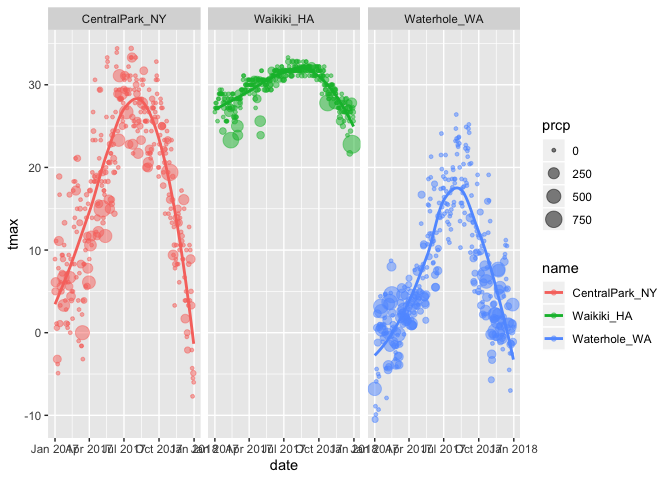
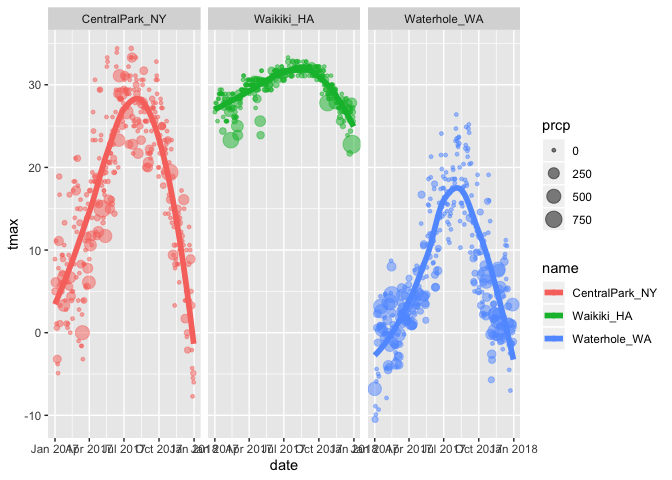
added more plots - histograms and density plots

diff --git a/viz_and_eda_1.md b/viz_and_eda_1.md
@@ -191,7 +191,7 @@ weather_df %>%
 weather_df %>%
   ggplot(aes(x = date, y = tmax, color = name)) +
   geom_point(aes(size = prcp), alpha = .5) +
-  geom_smooth(se = FALSE) +
+  geom_smooth(size = 2, se = FALSE) +
   facet_grid(~name)
 ```
 
@@ -206,3 +206,65 @@ weather_df %>%
 ``` r
 ## size = prcp -> the size of the datapoints are determined by the precipitation data
 ```
+
+## what happens when you remove geom\_point from code
+
+``` r
+weather_df %>%
+  ggplot(aes(x = date, y = tmax, color = name)) +
+  geom_smooth(size = 2, se = FALSE)
+```
+
+    ## `geom_smooth()` using method = 'loess' and formula 'y ~ x'
+
+    ## Warning: Removed 3 rows containing non-finite values (stat_smooth).
+
+![](viz_and_eda_1_files/figure-gfm/unnamed-chunk-9-1.png)<!-- -->
+
+## 2d density plot
+
+``` r
+## install.packages("hexbin")
+weather_df %>%
+  ggplot(aes(x = tmin, y = tmax)) +
+  geom_hex() 
+```
+
+    ## Warning: Removed 15 rows containing non-finite values (stat_binhex).
+
+![](viz_and_eda_1_files/figure-gfm/unnamed-chunk-10-1.png)<!-- -->
+
+## More kinds of plots
+
+``` r
+weather_df %>%
+  ggplot(aes(x = tmax, fill = name)) +
+  geom_histogram() +
+  facet_grid(~name)
+```
+
+    ## `stat_bin()` using `bins = 30`. Pick better value with `binwidth`.
+
+    ## Warning: Removed 3 rows containing non-finite values (stat_bin).
+
+![](viz_and_eda_1_files/figure-gfm/univariate_plot-1.png)<!-- -->
+
+``` r
+## gives information on univariate distributio of tmax
+## color = color of bar's outline
+## fill = color of bar's fill
+## position = "dodge" "unstacks" the bars
+```
+
+density plot - conveys similar information as histograms, but the plots
+are a bit more smoothed out
+
+``` r
+weather_df %>%
+  ggplot(aes(x = tmax, fill = name)) +
+  geom_density(alpha = .3) 
+```
+
+    ## Warning: Removed 3 rows containing non-finite values (stat_density).
+
+![](viz_and_eda_1_files/figure-gfm/unnamed-chunk-11-1.png)<!-- -->
